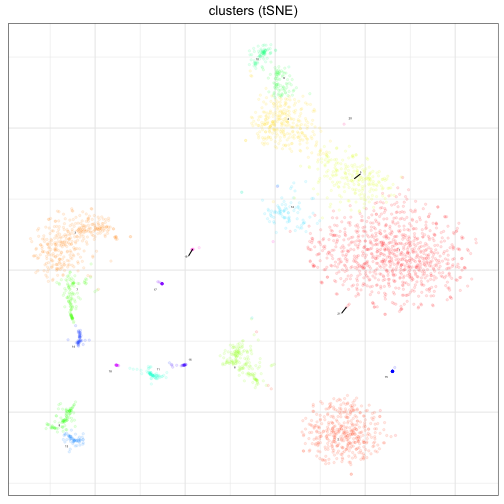
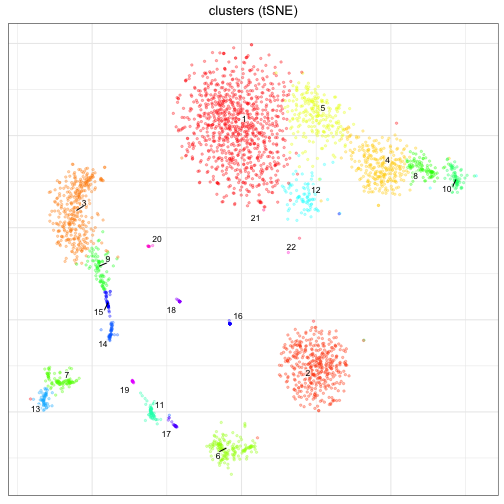
update default params, vignettes

diff --git a/vignettes/pagoda2.walkthrough.md b/vignettes/pagoda2.walkthrough.md
@@ -224,7 +224,7 @@ and we plot the data:
 
 
 ```r
-r$plotEmbedding(type='PCA', show.legend=FALSE, mark.groups=TRUE, min.cluster.size=50, shuffle.colors=FALSE, font.size=1, alpha=0.1, title='clusters (largeVis)', plot.theme=theme_bw() + theme(plot.title = element_text(hjust = 0.5)))
+r$plotEmbedding(type='PCA', show.legend=FALSE, mark.groups=TRUE, min.cluster.size=50, shuffle.colors=FALSE, font.size=3, alpha=0.3, title='clusters (largeVis)', plot.theme=theme_bw() + theme(plot.title = element_text(hjust = 0.5)))
 ```
 
 ![plot of chunk unnamed-chunk-15](figure/unnamed-chunk-15-1.png)
@@ -233,7 +233,7 @@ Next we can generate and plot a tSNE embedding. This can take a while to run!
 
 ```r
 r$getEmbedding(type='PCA', embeddingType='tSNE', perplexity=50,verbose=FALSE)
-r$plotEmbedding(type='PCA', embeddingType='tSNE', show.legend=FALSE, mark.groups=TRUE, min.cluster.size=1, shuffle.colors=FALSE, font.size=1, alpha=0.1, title='clusters (tSNE)', plot.theme=theme_bw() + theme(plot.title = element_text(hjust = 0.5)))
+r$plotEmbedding(type='PCA', embeddingType='tSNE', show.legend=FALSE, mark.groups=TRUE, min.cluster.size=1, shuffle.colors=FALSE, font.size=3, alpha=0.3, title='clusters (tSNE)', plot.theme=theme_bw() + theme(plot.title = element_text(hjust = 0.5)))
 ```
 
 ![plot of chunk unnamed-chunk-16](figure/unnamed-chunk-16-1.png)
@@ -245,7 +245,7 @@ For example, HBB will identify heme cells.
 
 ```r
 gene <-"HBB"
-r$plotEmbedding(type='PCA', embeddingType='tSNE', colors=r$counts[,gene], shuffle.colors=FALSE, font.size=1, alpha=0.1, title=gene, plot.theme=theme_bw() + theme(plot.title = element_text(hjust = 0.5)))
+r$plotEmbedding(type='PCA', embeddingType='tSNE', colors=r$counts[,gene], shuffle.colors=FALSE, font.size=3, alpha=0.3, title=gene, plot.theme=theme_bw() + theme(plot.title = element_text(hjust = 0.5)))
 ```
 
 ![plot of chunk unnamed-chunk-17](figure/unnamed-chunk-17-1.png)
@@ -253,7 +253,7 @@ r$plotEmbedding(type='PCA', embeddingType='tSNE', colors=r$counts[,gene], shuffl
 
 ```r
 gene <-"LYZ"
-r$plotEmbedding(type='PCA', embeddingType='tSNE', colors=r$counts[,gene], shuffle.colors=FALSE, font.size=1, alpha=0.1, title=gene, plot.theme=theme_bw() + theme(plot.title = element_text(hjust = 0.5)))
+r$plotEmbedding(type='PCA', embeddingType='tSNE', colors=r$counts[,gene], shuffle.colors=FALSE, font.size=3, alpha=0.3, title=gene, plot.theme=theme_bw() + theme(plot.title = element_text(hjust = 0.5)))
 ```
 
 ![plot of chunk unnamed-chunk-18](figure/unnamed-chunk-18-1.png)
@@ -275,11 +275,11 @@ str(r$clusters)
 ```
 ## List of 1
 ##  $ PCA:List of 3
-##   ..$ community : Factor w/ 21 levels "1","2","3","4",..: 5 1 1 6 6 1 2 4 2 13 ...
+##   ..$ community : Factor w/ 22 levels "1","2","3","4",..: 5 1 1 6 6 1 2 4 2 13 ...
 ##   .. ..- attr(*, "names")= chr [1:2998] "MantonBM1_HiSeq_1-TCTATTGGTCTCTCGT-1" "MantonBM1_HiSeq_1-GAATAAGTCACGCATA-1" "MantonBM1_HiSeq_1-ACACCGGTCTAACTTC-1" "MantonBM1_HiSeq_1-TCATTTGGTACGCTGC-1" ...
-##   ..$ multilevel: Factor w/ 11 levels "1","2","3","4",..: 5 10 10 11 11 10 6 3 6 8 ...
+##   ..$ multilevel: Factor w/ 11 levels "1","2","3","4",..: 5 11 11 2 2 11 6 3 6 8 ...
 ##   .. ..- attr(*, "names")= chr [1:2998] "MantonBM1_HiSeq_1-TCTATTGGTCTCTCGT-1" "MantonBM1_HiSeq_1-GAATAAGTCACGCATA-1" "MantonBM1_HiSeq_1-ACACCGGTCTAACTTC-1" "MantonBM1_HiSeq_1-TCATTTGGTACGCTGC-1" ...
-##   ..$ walktrap  : Factor w/ 12 levels "1","2","3","4",..: 2 7 7 6 6 7 9 4 9 3 ...
+##   ..$ walktrap  : Factor w/ 11 levels "1","2","3","4",..: 2 8 8 7 7 8 9 4 9 3 ...
 ##   .. ..- attr(*, "names")= chr [1:2998] "MantonBM1_HiSeq_1-TCTATTGGTCTCTCGT-1" "MantonBM1_HiSeq_1-GAATAAGTCACGCATA-1" "MantonBM1_HiSeq_1-ACACCGGTCTAACTTC-1" "MantonBM1_HiSeq_1-TCATTTGGTACGCTGC-1" ...
 ```
 
@@ -289,9 +289,9 @@ We can now compare these against `infomap.community`.
 
 
 ```r
-plt1 = r$plotEmbedding(type='PCA', embeddingType='tSNE', groups=r$clusters$PCA$community, show.legend=FALSE, mark.groups=TRUE, min.cluster.size=1, shuffle.colors=FALSE, alpha=0.1, title='infomap clusters (tSNE)', plot.theme=theme_bw() + theme(plot.title = element_text(hjust = 0.5)))
-plt2 = r$plotEmbedding(type='PCA',embeddingType='tSNE', clusterType='multilevel', show.legend=FALSE, mark.groups=TRUE, min.cluster.size=1, shuffle.colors=FALSE, alpha=0.1, title='multlevel clusters (tSNE)', plot.theme=theme_bw() + theme(plot.title = element_text(hjust = 0.5)))
-plt3 = r$plotEmbedding(type='PCA',embeddingType='tSNE', clusterType='walktrap', show.legend=FALSE, mark.groups=TRUE, min.cluster.size=1, shuffle.colors=FALSE, alpha=0.1, title='walktrap clusters (tSNE)', plot.theme=theme_bw() + theme(plot.title = element_text(hjust = 0.5)))
+plt1 = r$plotEmbedding(type='PCA', embeddingType='tSNE', groups=r$clusters$PCA$community, show.legend=FALSE, mark.groups=TRUE, min.cluster.size=1, shuffle.colors=FALSE, font.size=3, alpha=0.3, title='infomap clusters (tSNE)', plot.theme=theme_bw() + theme(plot.title = element_text(hjust = 0.5)))
+plt2 = r$plotEmbedding(type='PCA',embeddingType='tSNE', clusterType='multilevel', show.legend=FALSE, mark.groups=TRUE, min.cluster.size=1, shuffle.colors=FALSE, font.size=3, alpha=0.3, title='multlevel clusters (tSNE)', plot.theme=theme_bw() + theme(plot.title = element_text(hjust = 0.5)))
+plt3 = r$plotEmbedding(type='PCA',embeddingType='tSNE', clusterType='walktrap', show.legend=FALSE, mark.groups=TRUE, min.cluster.size=1, shuffle.colors=FALSE, font.size=3, alpha=0.3, title='walktrap clusters (tSNE)', plot.theme=theme_bw() + theme(plot.title = element_text(hjust = 0.5)))
 gridExtra::grid.arrange(plt1, plt2, plt3, ncol=3)
 ```
 
@@ -305,7 +305,7 @@ r$getDifferentialGenes(type='PCA', verbose=TRUE, clusterType='community')
 ```
 
 ```
-## running differential expression with 21 clusters ...
+## running differential expression with 22 clusters ...
 ```
 
 ```
@@ -330,7 +330,7 @@ r$plotGeneHeatmap(genes=rownames(de)[1:15], groups=r$clusters$PCA[[1]])
 
 ```r
 gene <-"CD74"
-r$plotEmbedding(type='PCA', embeddingType='tSNE', colors=r$counts[,gene], shuffle.colors=FALSE, alpha=0.1, legend.title=gene)
+r$plotEmbedding(type='PCA', embeddingType='tSNE', colors=r$counts[,gene], shuffle.colors=FALSE, font.size=3, alpha=0.3, legend.title=gene)
 ```
 
 ![plot of chunk unnamed-chunk-24](figure/unnamed-chunk-24-1.png)
@@ -380,18 +380,18 @@ str(genesets[1:2])
 
 ```
 ## List of 2
-##  $ 13.vs.8   :List of 2
+##  $ 14.vs.15:List of 2
 ##   ..$ properties:List of 3
 ##   .. ..$ locked          : logi TRUE
-##   .. ..$ genesetname     : chr "13.vs.8"
-##   .. ..$ shortdescription: chr "13.vs.8"
-##   ..$ genes     : chr [1:1672] "RPL21" "RPL31" "RPS6" "RPS27" ...
-##  $ 14.vs.8.13:List of 2
+##   .. ..$ genesetname     : chr "14.vs.15"
+##   .. ..$ shortdescription: chr "14.vs.15"
+##   ..$ genes     : chr [1:137] "EEF1A1" "RPS4X" "RPL10A" "GNB2L1" ...
+##  $ 3.vs.9  :List of 2
 ##   ..$ properties:List of 3
 ##   .. ..$ locked          : logi TRUE
-##   .. ..$ genesetname     : chr "14.vs.8.13"
-##   .. ..$ shortdescription: chr "14.vs.8.13"
-##   ..$ genes     : chr [1:484] "VIM" "HLA-A" "RPS4X" "AIF1" ...
+##   .. ..$ genesetname     : chr "3.vs.9"
+##   .. ..$ shortdescription: chr "3.vs.9"
+##   ..$ genes     : chr [1:124] "FTH1" "TYROBP" "FTL" "CTSS" ...
 ```
 
 To add GO Terms as genesets run the following
